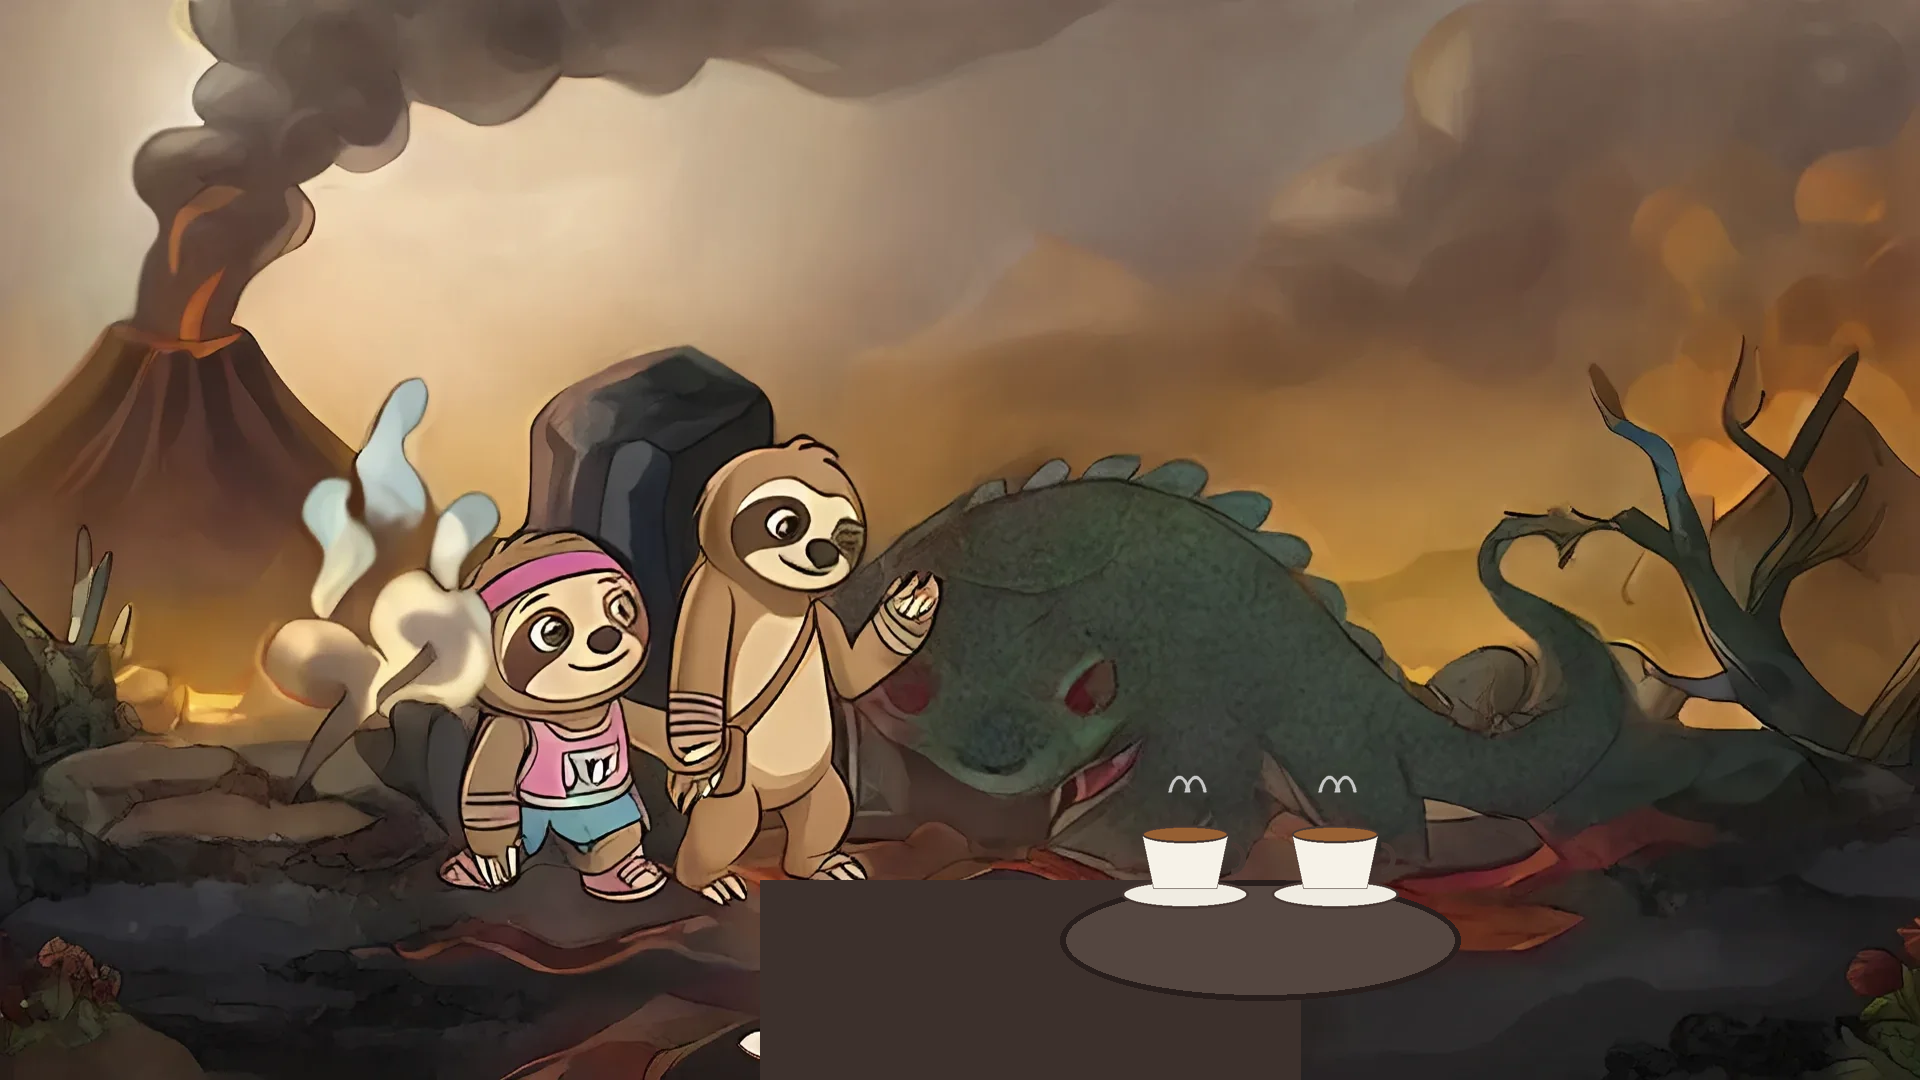
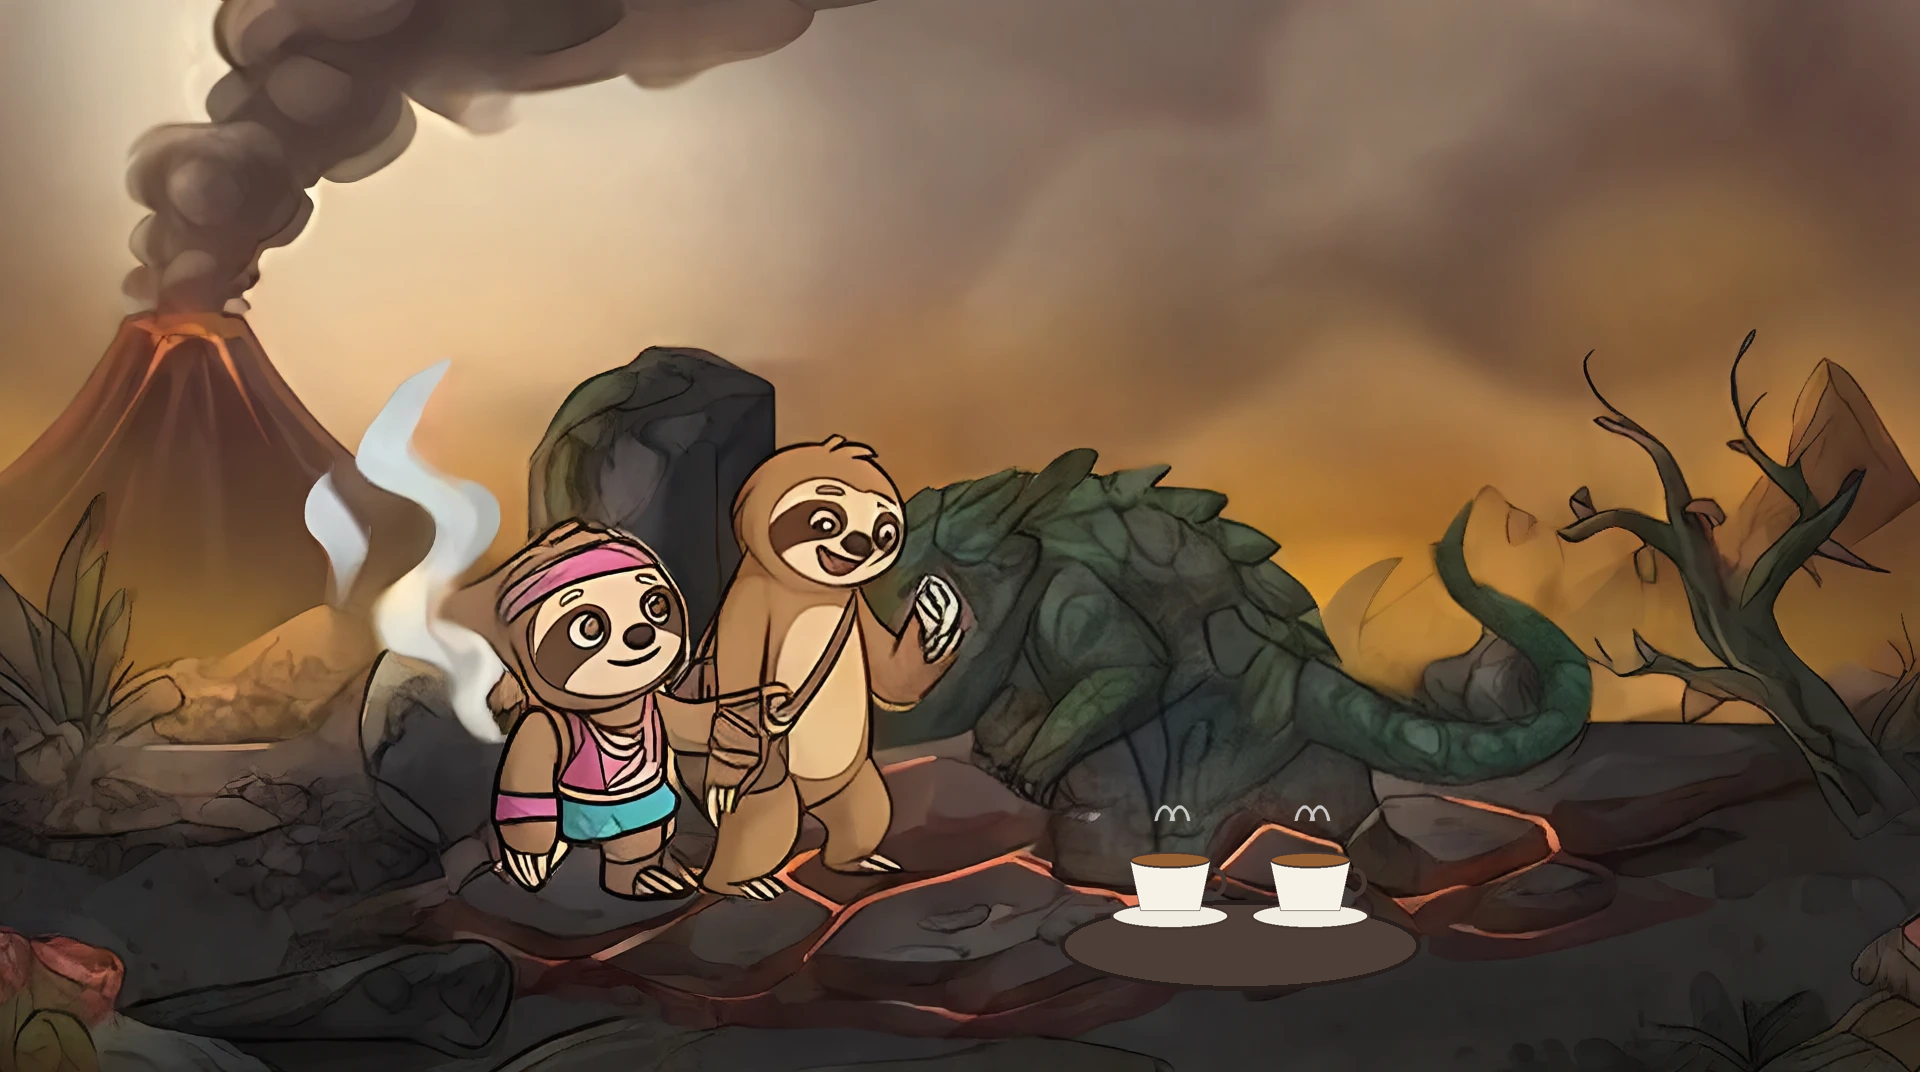
Story art: the Drake's cups start from his cup-less take
Claude-Session: https://claude.ai/code/session_01FhBbYMSNFxnWxPbZJPdRan

diff --git a/tools/art/storyart/make_spec.py b/tools/art/storyart/make_spec.py
@@ -670,6 +670,17 @@ def round7(commit):
             'repo': f'https://raw.githubusercontent.com/mshaffe1111/Sloths-Adventure-/{commit}/', 'keep': [x['name'] for x in it]}
 
 
+def round7b(commit):
+    """the Drake's cups again, from the earlier take of his card that had none: a rock and two cups by him, painted in gently"""
+    spec = round7(commit)
+    spec['tag'] = 'r7b'
+    it = [x for x in spec['items'] if x['name'].startswith('card-magma-drake')]
+    for x, (st, sd) in zip(it, ((0.58, 4), (0.68, 9))):
+        x['strength'], x['seed'], x['name'] = st, sd, f'card-magma-drake-w{round(st * 100)}'
+    spec['items'], spec['keep'] = it, [x['name'] for x in it]
+    return spec
+
+
 def args(name, commit):
     raw = f'https://raw.githubusercontent.com/mshaffe1111/Sloths-Adventure-/{commit}/tools/art/storyart'
     get = (f'mkdir -p /out/storyart/jobs && curl -fsSL {raw}/storygpu.py -o /out/storyart/jobs/storygpu.py && '
